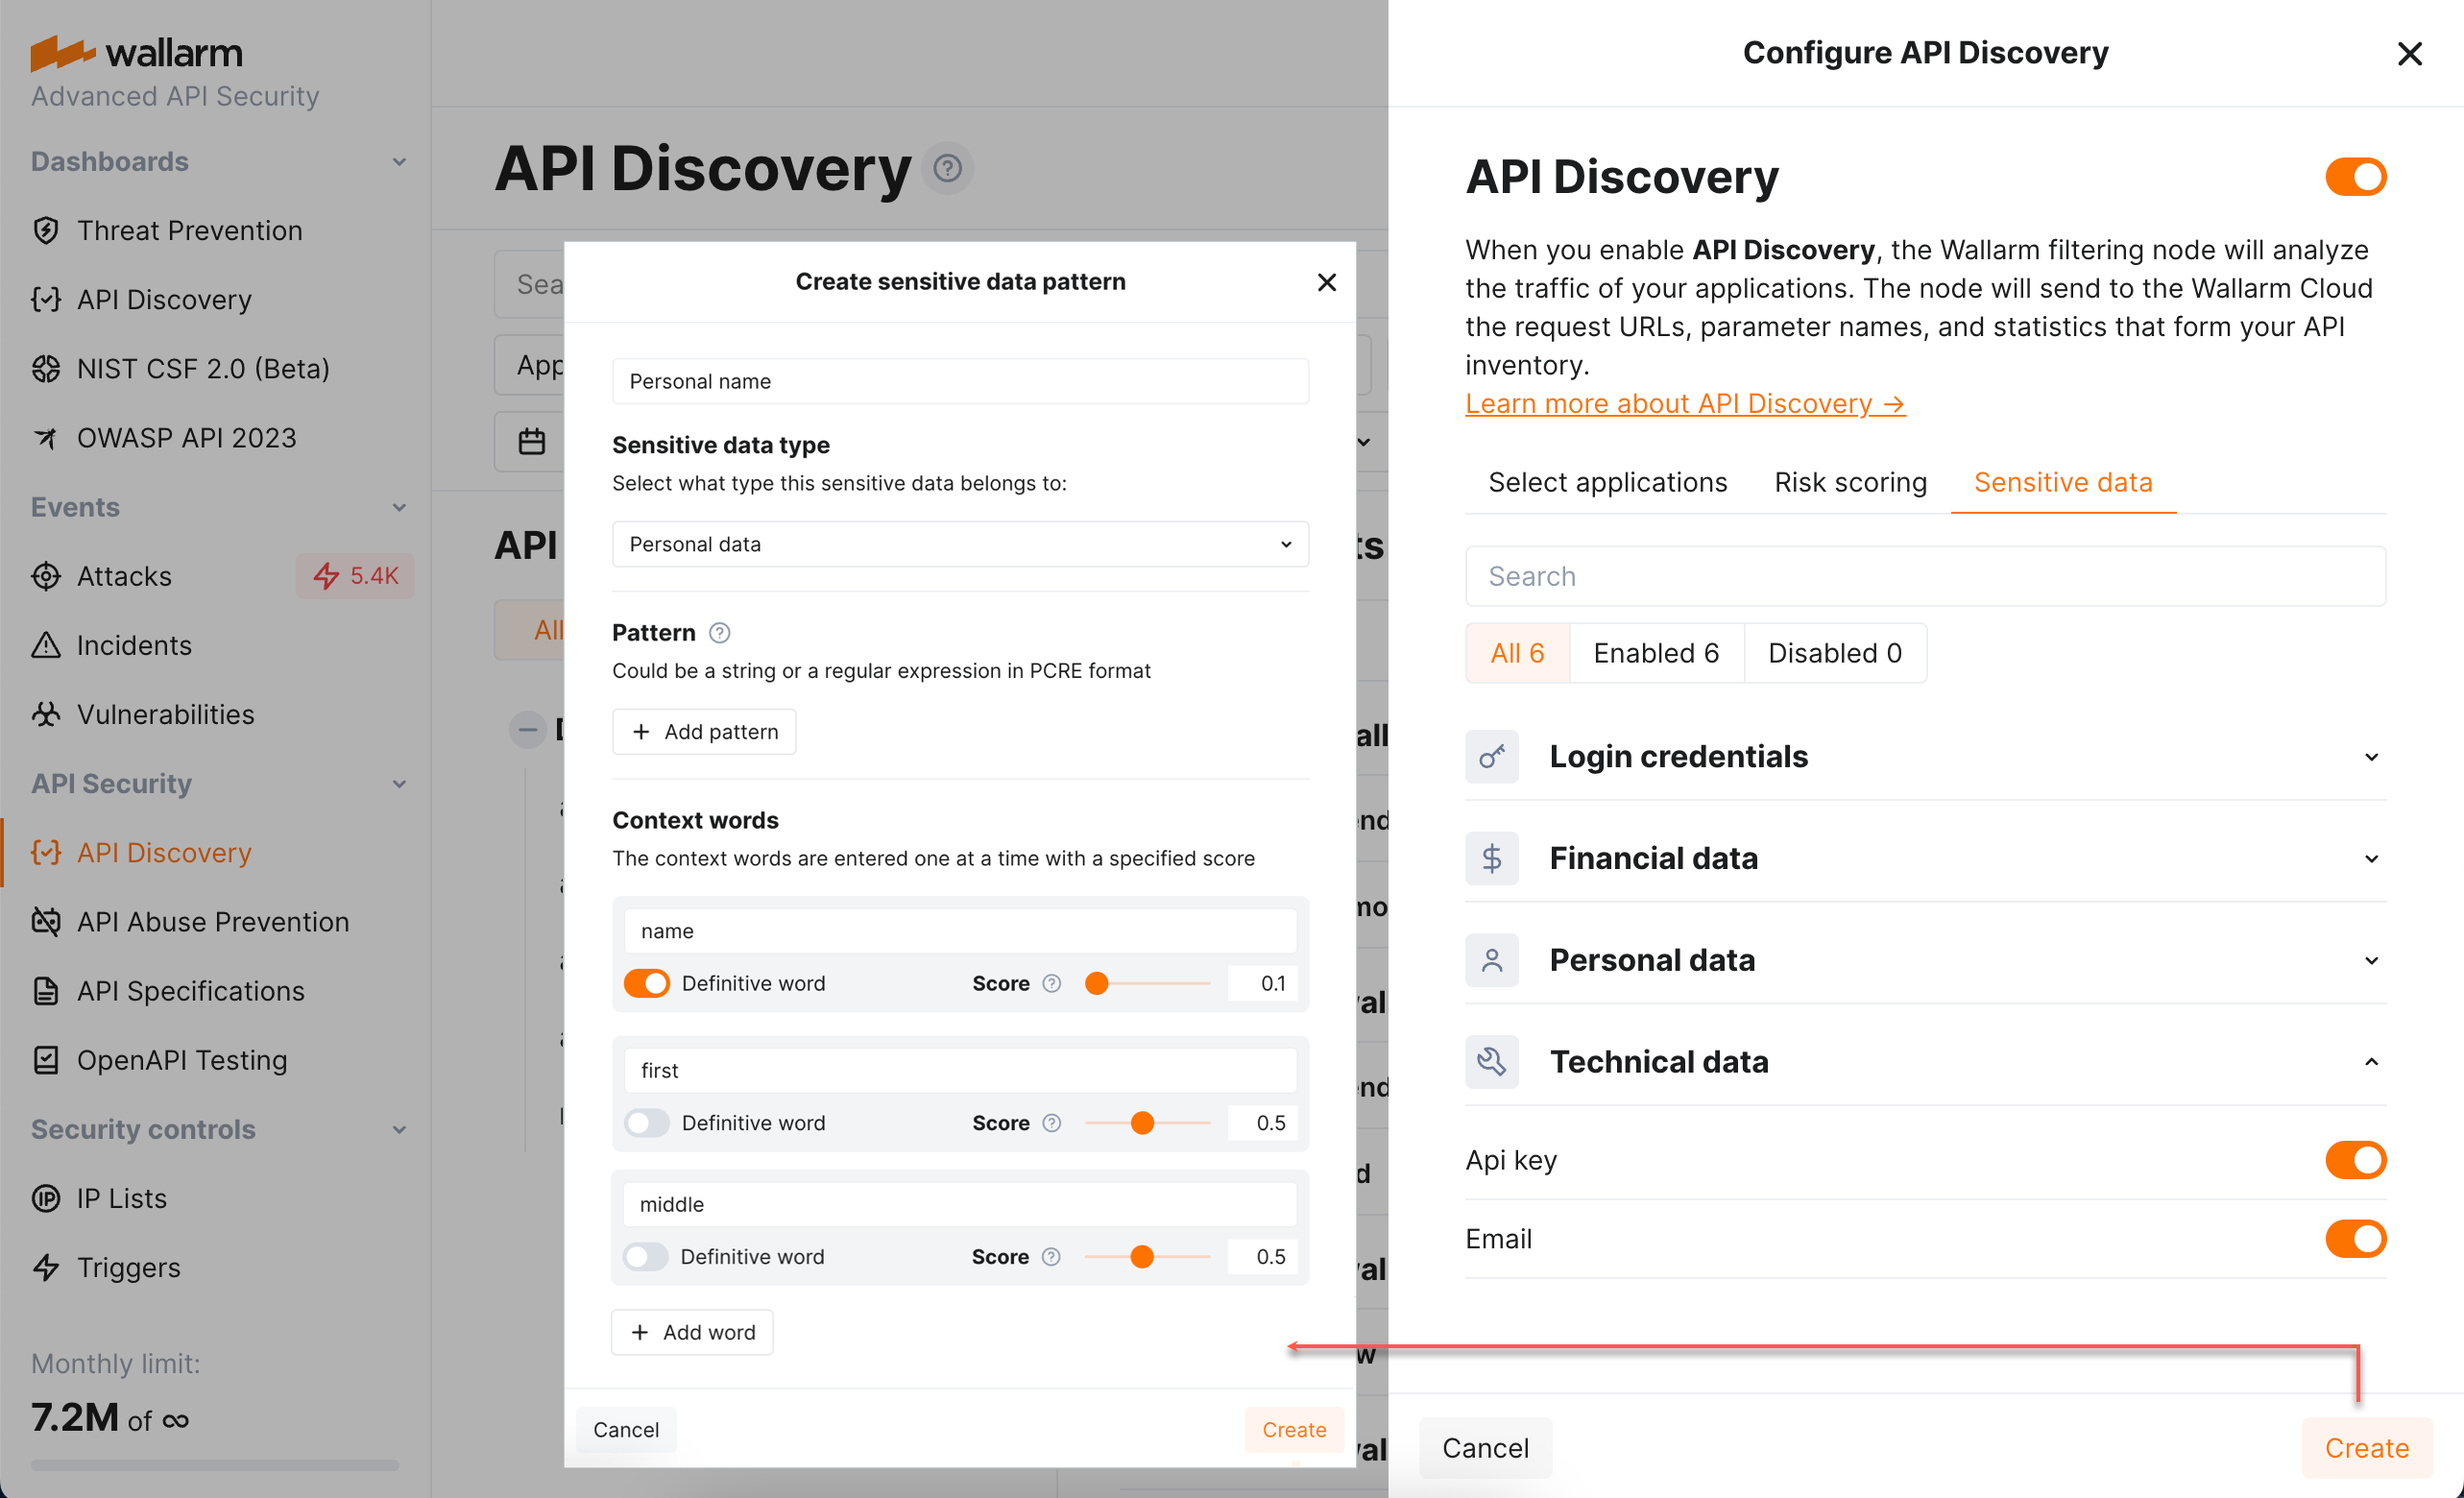
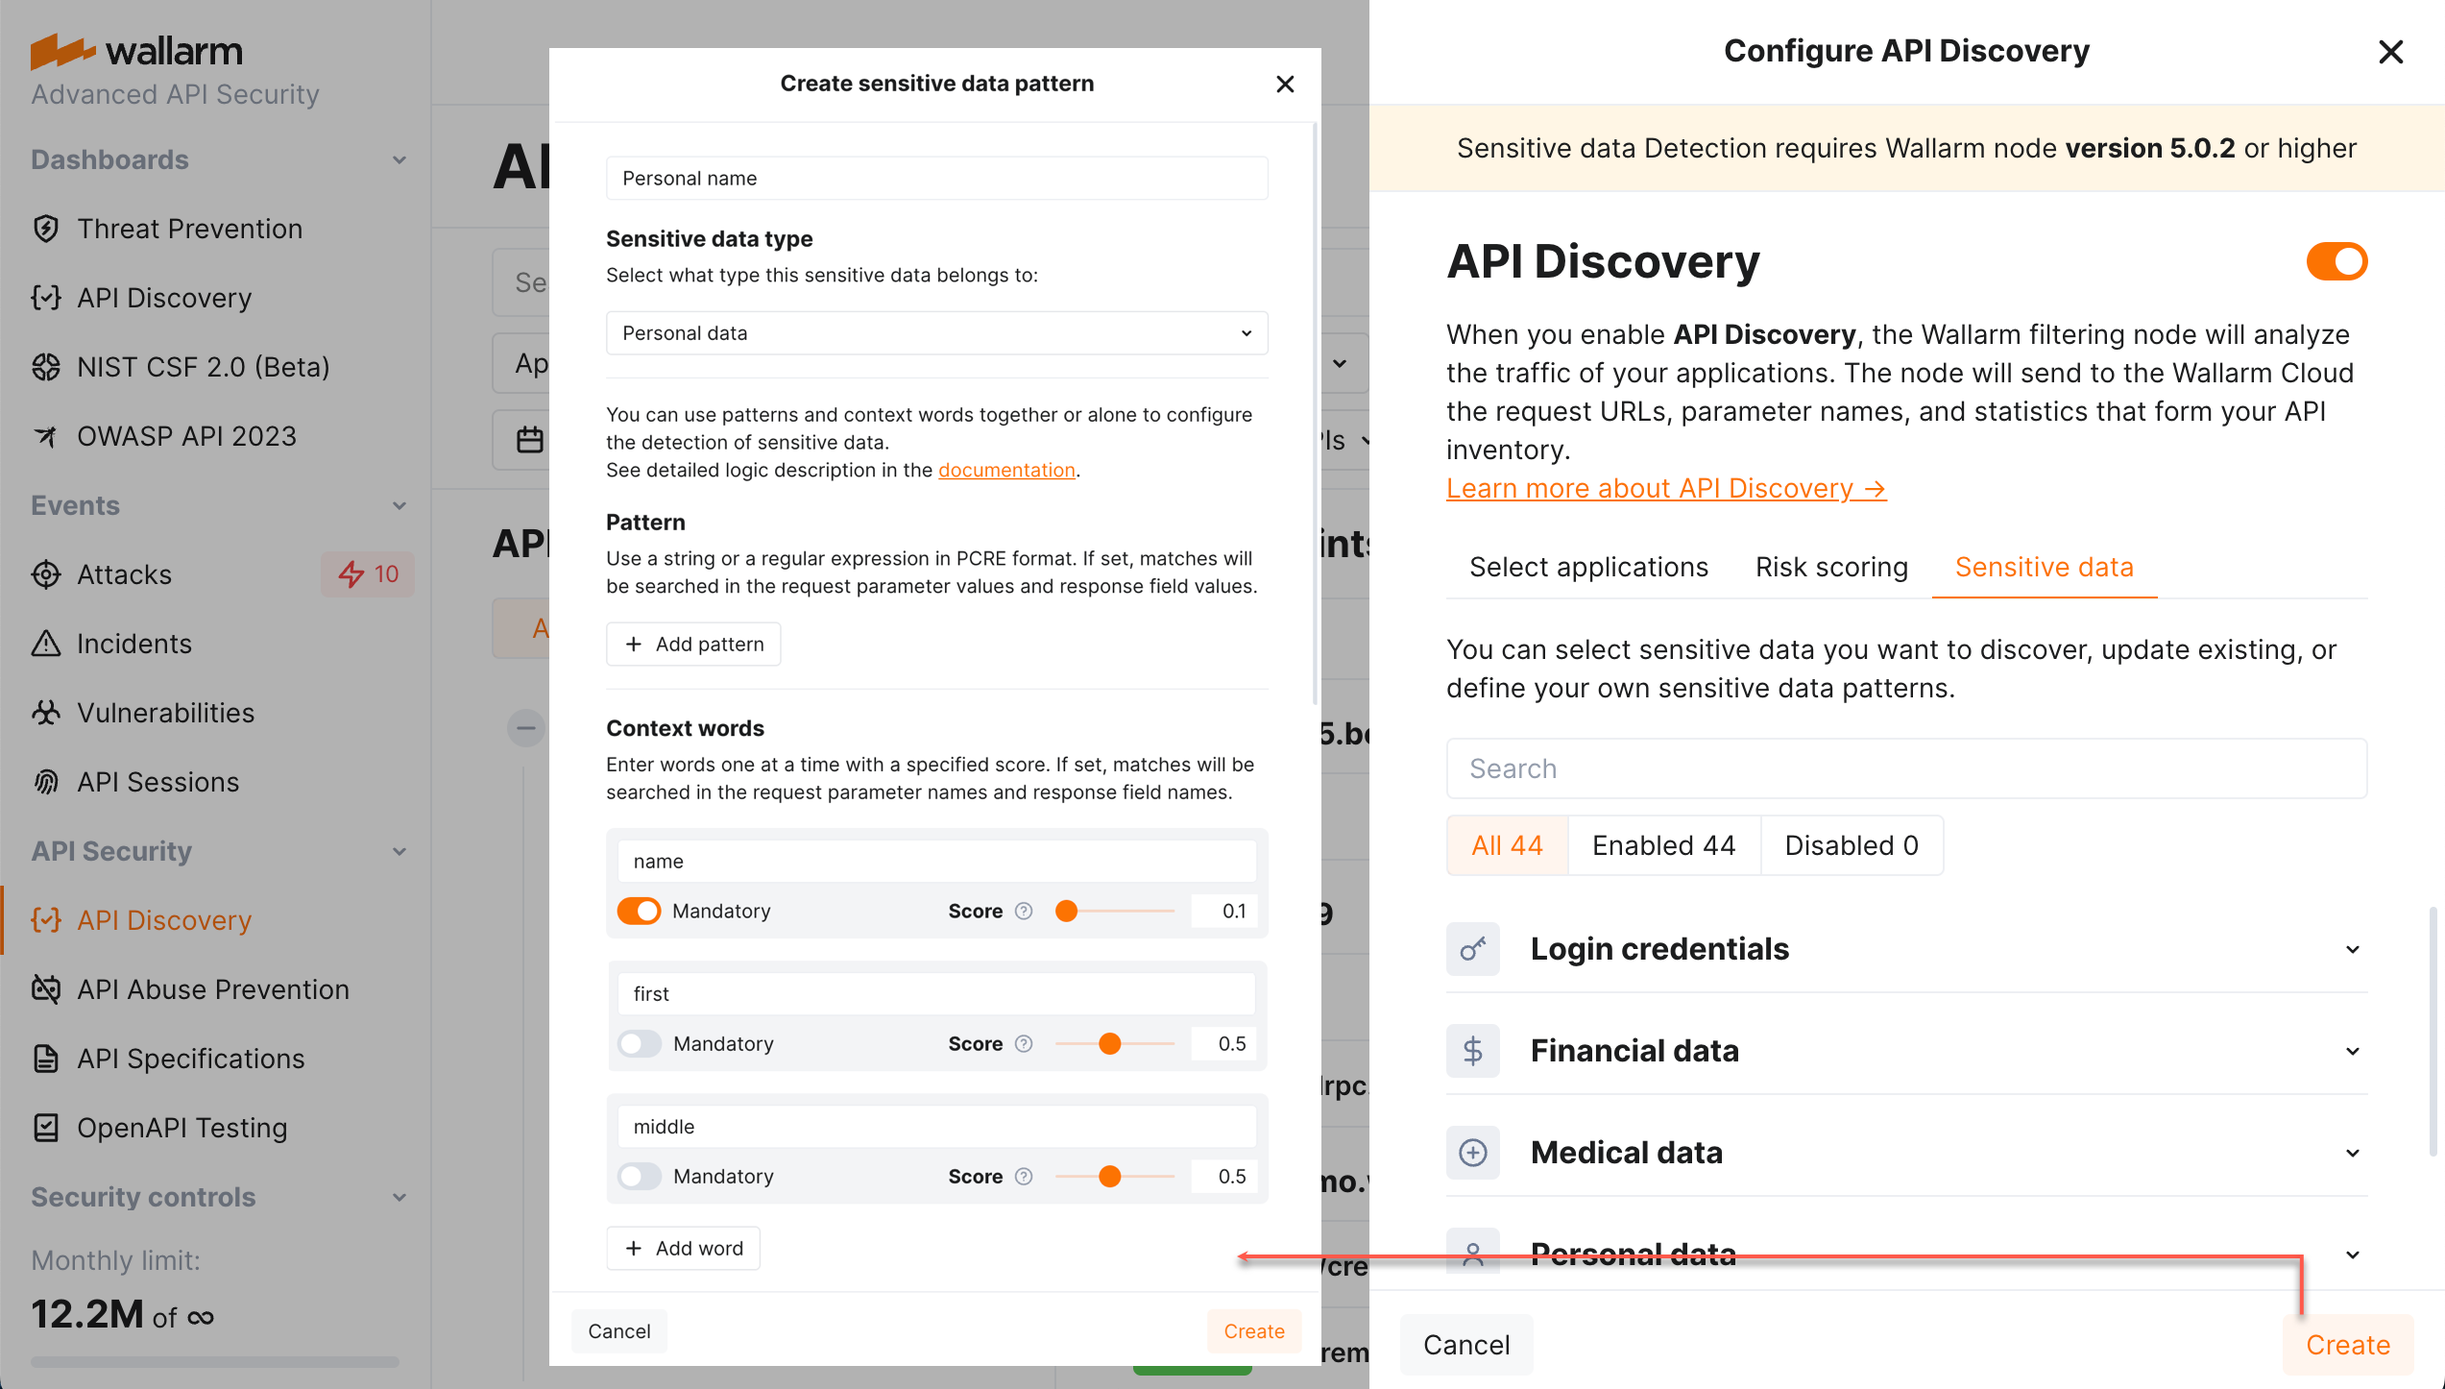
DOCS-2450 UI and description fixes

diff --git a/docs/latest/api-discovery/setup.md b/docs/latest/api-discovery/setup.md
@@ -72,7 +72,7 @@ Patterns are suitable for fixed-length tokens, IDs, and URIs.
 
 **Context words**
 
-Wallarm looks at the words around the suspected sensitive data that match the pattern. If any of the context words is found, it boosts the resulting confidence score. The context can come from URL path, query parameter name, JSON keys, the parameter’s value itself, and other parameters next to it.
+Wallarm looks at the words around the suspected sensitive data that match the pattern. If any of the context words is found, it boosts the resulting confidence score. The context can come from URL path, query parameter name, JSON keys, and other parameters next to it.
 
 ![API Discovery – Settings - Sensitive data](../images/about-wallarm-waf/api-discovery/api-discovery-settings-sd.png)
 
@@ -80,7 +80,7 @@ Wallarm looks at the words around the suspected sensitive data that match the pa
 
 If you specify context words without patterns, Wallarm decides on sensitive data presence based on the presence of the words. The more the confidence scores sum, the more likely the parameter will be marked as having your described sensitive data.
 
-For some context-only searches, it is necessary to declare some words as **definitive**: if the definitive word is not presented in the value's context, the parameter does not contain sensitive data.
+For some context-only searches, it is necessary to declare some words as **mandatory**: if the mandatory word is not presented in the value's context, the parameter does not contain sensitive data.
 
 Example: personal_name
 
@@ -92,7 +92,7 @@ Context words:
 
 We must match `middle_name,` but not `name` or `middle`. So, we set a score for `name` to `0.1` so we will not match `name`. But we must give `middle` a big score of `0.5` because "middle_name" is a strong combination.
 
-To prevent us from detecting "middle" without `name,` we mark `name` as definitive for an entity. If `name` is not found, no sensitive data is detected.
+To prevent us from detecting "middle" without `name,` we mark `name` as mandatory for an entity. If `name` is not found, no sensitive data is detected.
 
 ![API Discovery – Settings - Sensitive data - Creating custom pattern](../images/about-wallarm-waf/api-discovery/api-discovery-settings-sd-own-pattern.png)
 
